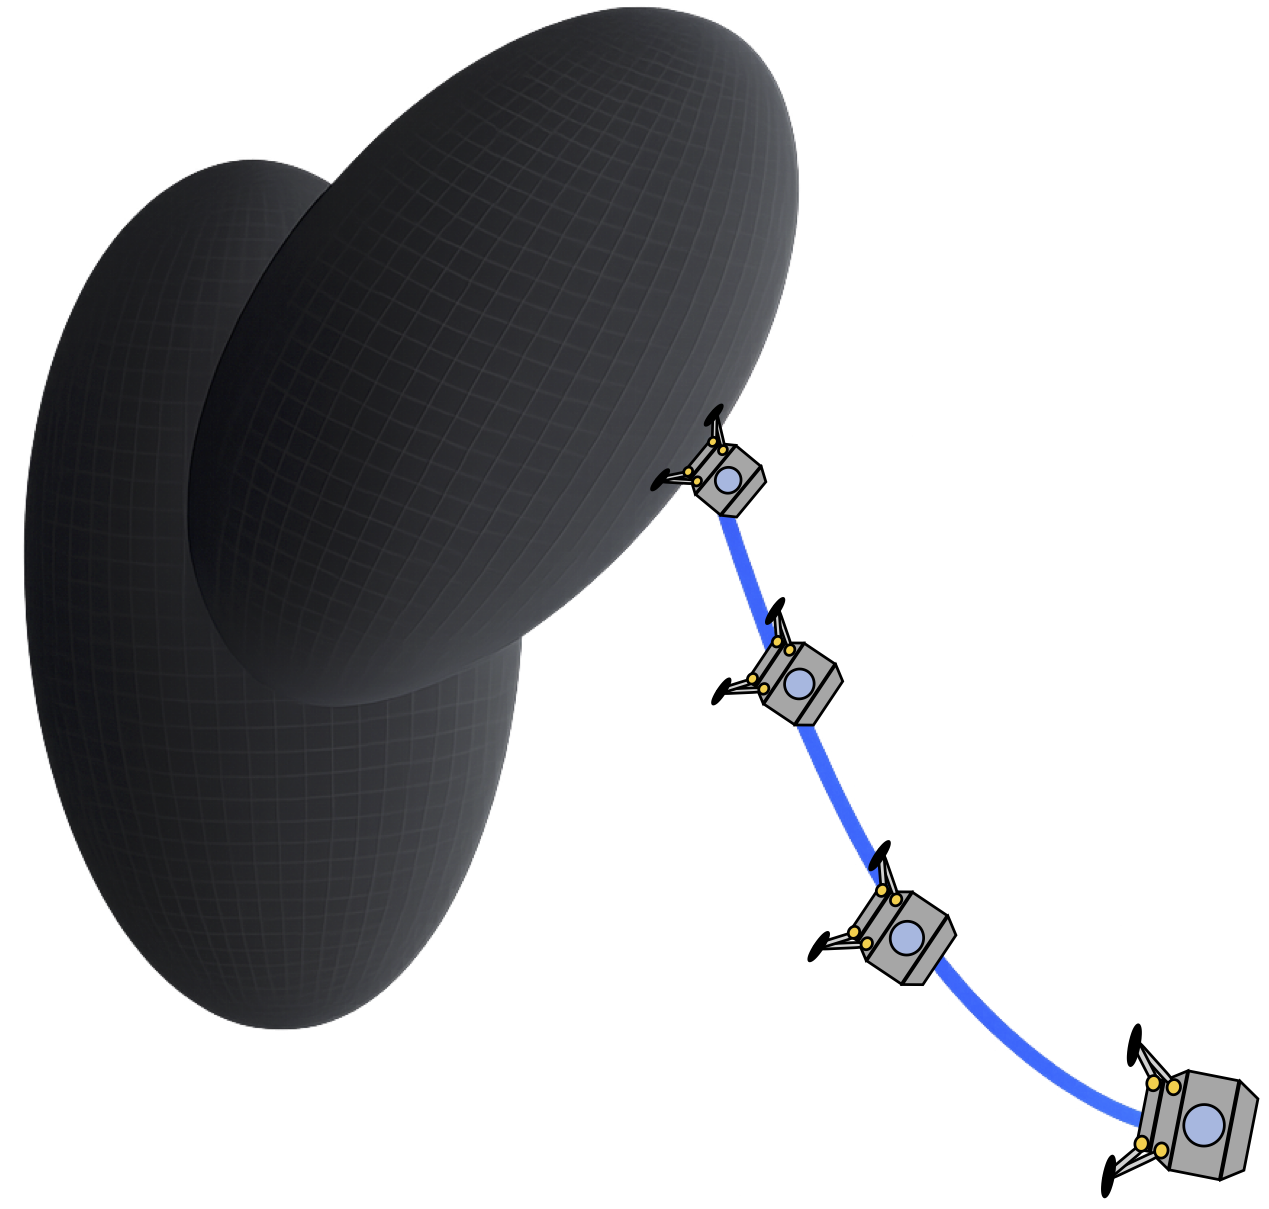
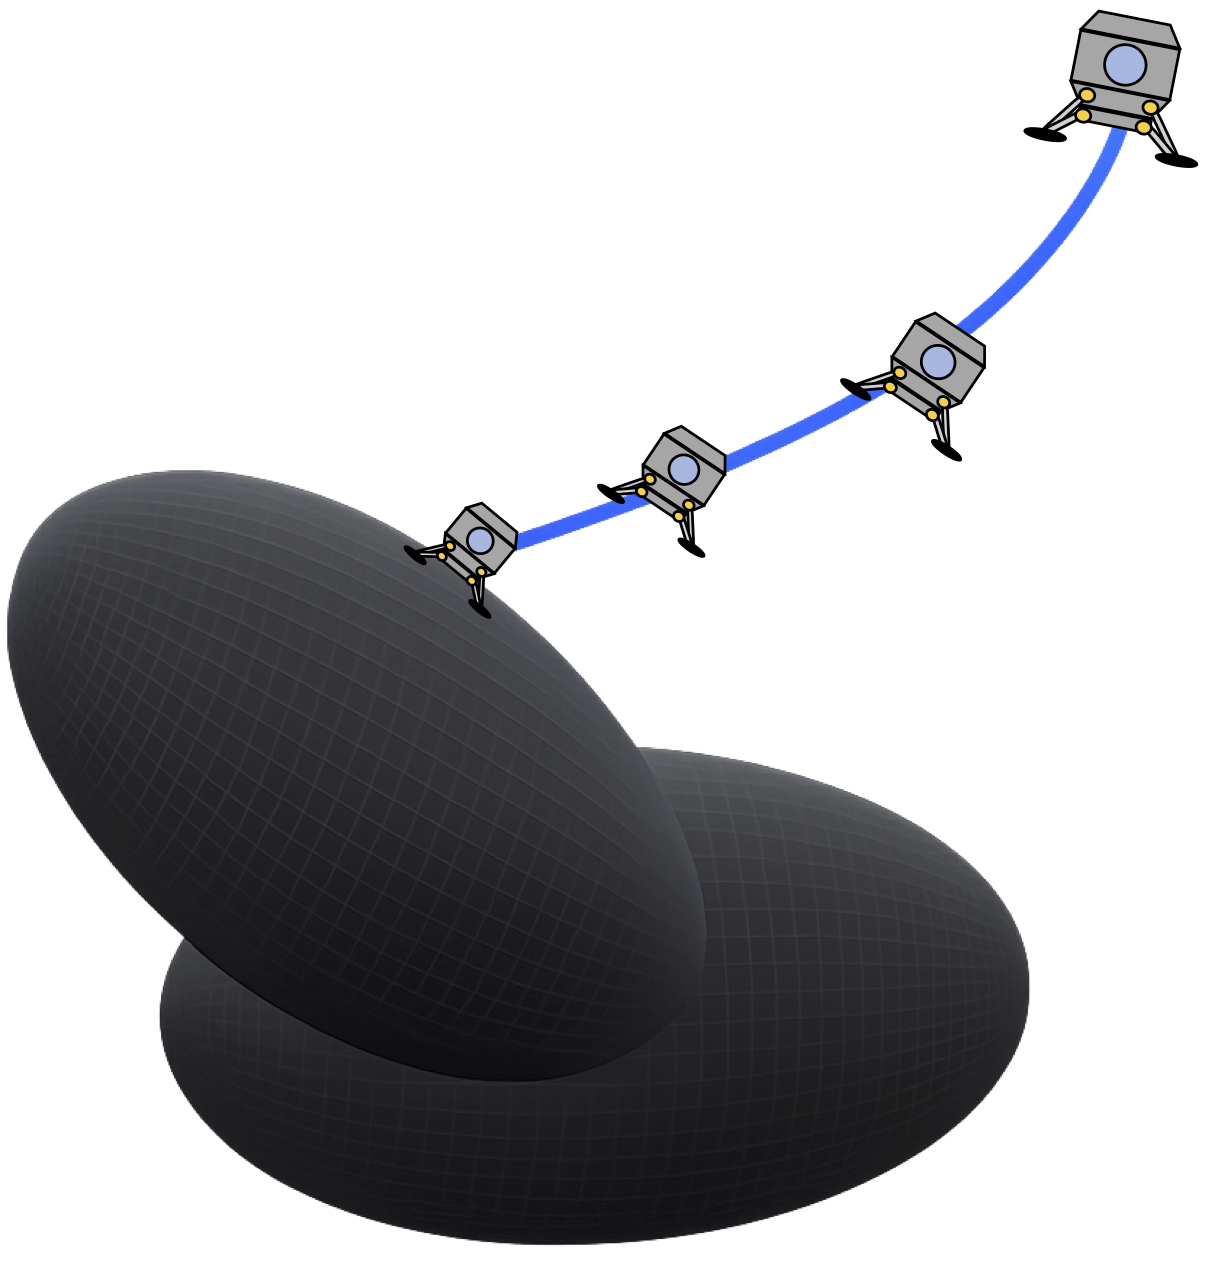
Updates

diff --git a/index.html b/index.html
@@ -17,12 +17,13 @@
   <meta property="og:site_name" content="University of Kentucky">
   <meta property="og:title" content="Safe Position and Attitude Control for Landing on Small Celestial Bodies with Gravitational Uncertainty">
   <meta property="og:description" content="An optimal control strategy using disturbance estimation and Control Barrier Functions to guarantee safe spacecraft landing on small celestial bodies.">
-  <meta property="og:url" content="https://YOUR_DOMAIN.com/YOUR_PROJECT_PAGE">
-  <meta property="og:image" content="https://YOUR_DOMAIN.com/static/images/social_preview.png">
+  <meta property="og:url" content="https://felipearenasuribe.github.io/SCB_Safe_Landing/">
+  <meta property="og:image" content="https://felipearenasuribe.github.io/SCB_Safe_Landing/static/images/Irreg_traj.png">
   <meta property="og:image:width" content="1200">
   <meta property="og:image:height" content="630">
-  <meta property="og:image:alt" content="Safe Position and Attitude Control for Landing on Small Celestial Bodies with Gravitational Uncertainty - Research Preview">
-  <meta property="article:published_time" content="2026"> <!-- TODO: Update to actual publication date -->
+  <meta property="og:image:alt" content="Spacecraft landing trajectory on an irregularly-shaped small celestial body">
+  <!-- TODO: this reuses an existing figure as a stand-in social card. For best results on X/LinkedIn/Slack,
+       create a dedicated 1200x630 image (e.g. title + trajectory teaser) and swap it in above and below. -->
   <meta property="article:author" content="Felipe Arenas-Uribe">
   <meta property="article:section" content="Research">
   <meta property="article:tag" content="Control Barrier Functions">
@@ -30,21 +31,25 @@
 
   <!-- Twitter -->
   <meta name="twitter:card" content="summary_large_image">
-  <meta name="twitter:site" content="@YOUR_LAB_TWITTER_HANDLE">
-  <meta name="twitter:creator" content="@AUTHOR_TWITTER_HANDLE">
   <meta name="twitter:title" content="Safe Position and Attitude Control for Landing on Small Celestial Bodies with Gravitational Uncertainty">
   <meta name="twitter:description" content="An optimal control strategy using disturbance estimation and Control Barrier Functions to guarantee safe spacecraft landing on small celestial bodies.">
-  <meta name="twitter:image" content="https://YOUR_DOMAIN.com/static/images/social_preview.png">
-  <meta name="twitter:image:alt" content="Safe Position and Attitude Control for Landing on Small Celestial Bodies with Gravitational Uncertainty - Research Preview">
+  <meta name="twitter:image" content="https://felipearenasuribe.github.io/SCB_Safe_Landing/static/images/Irreg_traj.png">
+  <meta name="twitter:image:alt" content="Spacecraft landing trajectory on an irregularly-shaped small celestial body">
+  <!-- TODO: add twitter:site / twitter:creator (e.g. "@your_handle") if/when you have one -->
 
   <!-- Academic/Research Specific -->
+  <!-- NOTE: citation_* tags are commented out until the paper is accepted/posted as a preprint,
+       to avoid Google Scholar indexing a paper that isn't publicly available yet. Uncomment and
+       fill in citation_journal_title, citation_publication_date, and citation_pdf_url once ready. -->
+  <!--
   <meta name="citation_title" content="Safe Position and Attitude Control for Landing on Small Celestial Bodies with Gravitational Uncertainty">
   <meta name="citation_author" content="Arenas-Uribe, Felipe">
   <meta name="citation_author" content="Seigler, T. Michael">
   <meta name="citation_author" content="Hoagg, Jesse B.">
-  <meta name="citation_publication_date" content="2026"> <!-- TODO: Update year if published later -->
-  <meta name="citation_conference_title" content="CONFERENCE_OR_JOURNAL_NAME">
-  <meta name="citation_pdf_url" content="https://YOUR_DOMAIN.com/static/pdfs/paper.pdf">
+  <meta name="citation_publication_date" content="2026">
+  <meta name="citation_journal_title" content="Frontiers in Robotics and AI">
+  <meta name="citation_pdf_url" content="https://felipearenasuribe.github.io/SCB_Safe_Landing/static/pdfs/paper.pdf">
+  -->
   
   <!-- Additional SEO -->
   <meta name="theme-color" content="#2563eb">
@@ -59,7 +64,7 @@
   <link rel="preconnect" href="https://documentcloud.adobe.com">
   <link rel="preconnect" href="https://cdn.jsdelivr.net">
 
-  <title>Safe Position and Attitude Control for Landing on Small Celestial Bodies with Gravitational Uncertainty - Felipe Arenas-Uribe, T. Michael Seigler, & Jesse B. Hoagg | Academic Research</title>
+  <title>Safe Position and Attitude Control for Landing on Small Celestial Bodies with Gravitational Uncertainty</title>
   
   <!-- Favicon and App Icons -->
   <link rel="icon" type="image/x-icon" href="static/images/spacecraft.ico">
@@ -126,13 +131,13 @@
         }
       }
     ],
-    "datePublished": "July, 2026",
+    "creativeWorkStatus": "Under review",
     "publisher": {
       "@type": "Organization",
-      "name": "Submitted to..."
+      "name": "Frontiers in Robotics and AI"
     },
-    "url": "https://YOUR_DOMAIN.com/YOUR_PROJECT_PAGE",
-    "image": "https://YOUR_DOMAIN.com/static/images/social_preview.png",
+    "url": "https://felipearenasuribe.github.io/SCB_Safe_Landing/",
+    "image": "https://felipearenasuribe.github.io/SCB_Safe_Landing/static/images/Irreg_traj.png",
     "keywords": [
       "spacecraft control", 
       "small celestial bodies", 
@@ -143,12 +148,10 @@
       "6-DOF dynamics"
     ],
     "abstract": "Soft landing on small celestial bodies (SCBs) presents control challenges due to highly irregular gravitational fields that are poorly captured by models. For over-actuated spacecraft, these challenges are compounded by the need to manage coupled 6-DOF dynamics while respecting individual actuator limits. This paper proposes an optimal control strategy that combines disturbance estimation, trajectory tracking, and safety enforcement for fully-actuated and over-actuated spacecraft. The approach begins by mapping the high-dimensional input constraints of the over-actuated system onto the lower-dimensional space of forces and moments using a polytope projection algorithm. This allows for a unified representation of admissible control efforts. An extended high-gain observer provides real-time estimation of gravitational disturbances, while a nominal control is designed using a feedback-linearizing controller to track position and attitude reference trajectories. To guarantee safety, a minimum-intervention quadratic program utilizing Control Barrier Functions enforces state and input constraints. Finally, an optimal control allocation layer distributes the safe forces and moments back to the individual actuators. Numerical simulations on irregularly shaped SCBs demonstrate that the proposed controller achieves safe landings across various actuator configurations, offering a robust solution for autonomous space missions.",
-    "citation": "@article{arenas2026safe,\n  title={Safe Position and Attitude Control for Landing on Small Celestial Bodies with Gravitational Uncertainty},\n  author={Arenas-Uribe, Felipe and Seigler, T Michael and Hoagg, Jesse B},\n  year={2026}\n}",
-    "isAccessibleForFree": true,
-    "license": "https://creativecommons.org/licenses/by/4.0/",
+    "isAccessibleForFree": false,
     "mainEntity": {
       "@type": "WebPage",
-      "@id": "https://YOUR_DOMAIN.com/YOUR_PROJECT_PAGE"
+      "@id": "https://felipearenasuribe.github.io/SCB_Safe_Landing/"
     },
     "about": [
       {
@@ -169,9 +172,8 @@
     "@type": "Organization",
     "name": "University of Kentucky",
     "url": "https://www.uky.edu",
-    "logo": "https://YOUR_DOMAIN.com/static/images/favicon.ico",
+    "logo": "https://felipearenasuribe.github.io/SCB_Safe_Landing/static/images/spacecraft.ico",
     "sameAs": [
-      "https://twitter.com/YOUR_LAB_TWITTER_HANDLE",
       "https://github.com/FelipeArenasUribe"
     ]
   }
@@ -208,21 +210,21 @@
           </div>
 
           <div class="is-size-6 publication-authors">
-            <span class="author-block"><strong>PREPRINT - 2026</strong></span>
+            <span class="author-block"><strong>Under Review &mdash; Frontiers in Robotics and AI</strong></span>
           </div>
 
           <div class="column has-text-centered">
             <div class="publication-links">
-              
+              <!-- TODO: once a preprint is posted, re-add an arXiv/Paper button here, e.g.:
               <span class="link-block">
-                <a href="https://arxiv.org/abs/<ARXIV PAPER ID>" target="_blank" class="external-link button is-normal is-rounded is-dark">
-                  <span class="icon">
-                    <i class="ai ai-arxiv"></i>
-                  </span>
+                <a href="https://arxiv.org/abs/XXXX.XXXXX" target="_blank" class="external-link button is-normal is-rounded is-dark">
+                  <span class="icon"><i class="ai ai-arxiv"></i></span>
                   <span>arXiv</span>
                 </a>
               </span>
+              -->
 
+              <!-- NOTE: this repo is currently private and will be made public alongside the paper -->
               <span class="link-block">
                 <a href="https://github.com/FelipeArenasUribe/Asteroid_Safe_Landing" target="_blank" class="external-link button is-normal is-rounded is-dark">
                   <span class="icon">
@@ -274,7 +276,6 @@
       <div class="column is-four-fifths">
         <h2 class="title is-3">Abstract</h2>
         <div class="content has-text-justified">
-          <!-- TODO: Replace with your paper abstract -->
           <p>
             Soft landing on small celestial bodies (SCBs) presents control challenges due to highly irregular gravitational fields that are poorly captured by models. For over-actuated spacecraft, these challenges are compounded by the need to manage coupled 6-DOF dynamics while respecting individual actuator limits. This paper proposes an optimal control strategy that combines disturbance estimation, trajectory tracking, and safety enforcement for fully-actuated and over-actuated spacecraft. The approach begins by mapping the high-dimensional input constraints of the over-actuated system onto the lower-dimensional space of forces and moments using a polytope projection algorithm. This allows for a unified representation of admissible control efforts. An extended high-gain observer provides real-time estimation of gravitational disturbances, while a nominal control is designed using a feedback-linearizing controller to track position and attitude reference trajectories. To guarantee safety, a minimum-intervention quadratic program utilizing Control Barrier Functions enforces state and input constraints. Finally, an optimal control allocation layer distributes the safe forces and moments back to the individual actuators. Numerical simulations on irregularly shaped SCBs demonstrate that the proposed controller achieves safe landings across various actuator configurations, offering a robust solution for autonomous space missions.
           </p>
@@ -286,6 +287,67 @@
 <!-- End paper abstract -->
 
 
+<section class="hero is-small" id="problem-setup">
+  <div class="hero-body">
+    <div class="container is-max-desktop">
+
+      <h2 class="title is-4 has-text-centered mb-5">The Landing Problem</h2>
+
+      <div class="content has-text-justified" style="max-width: 760px; margin: 0 auto 2.5rem auto;">
+        <p>
+          A spacecraft must descend from a hovering position to a target touchdown site on a small,
+          irregularly-shaped asteroid whose weak, poorly-known gravity field makes standard landing
+          controllers unreliable. Beyond simply reaching the surface, the vehicle must stay within a
+          safe approach corridor for the entire descent:
+        </p>
+      </div>
+
+      <div class="columns is-centered is-vcentered">
+
+        <div class="column is-one-third has-text-centered">
+          <img src="static/images/Asteroid_Spacecraft.jpg"
+               alt="Spacecraft position and attitude defined relative to a rotating asteroid frame and an inertial frame"
+               style="width: 100%; max-width: 300px; height: auto; border-radius: 6px;">
+          <p class="is-size-7" style="color: #4a4a4a; margin-top: 0.75rem;">
+            The spacecraft's position and attitude are tracked relative to the asteroid, which rotates
+            independently in inertial space.
+          </p>
+        </div>
+
+        <div class="column is-one-third has-text-centered">
+          <img src="static/images/gs_cons.jpg"
+               alt="Glideslope cone constraint restricting the spacecraft to a safe approach path above the landing site"
+               style="width: 100%; max-width: 300px; height: auto; border-radius: 6px;">
+          <p class="is-size-7" style="color: #4a4a4a; margin-top: 0.75rem;">
+            A glideslope cone keeps the vehicle on a safe approach path, ruling out shallow,
+            surface-grazing trajectories.
+          </p>
+        </div>
+
+        <div class="column is-one-third has-text-centered">
+          <img src="static/images/bs_cons.jpg"
+               alt="Boresight cone constraint keeping the spacecraft's sensing axis pointed at the landing site"
+               style="width: 100%; max-width: 300px; height: auto; border-radius: 6px;">
+          <p class="is-size-7" style="color: #4a4a4a; margin-top: 0.75rem;">
+            A boresight cone keeps the vehicle pointed at the landing site throughout the approach.
+          </p>
+        </div>
+
+      </div>
+
+      <div class="content has-text-justified" style="max-width: 760px; margin: 1.5rem auto 0 auto;">
+        <p>
+          Together with limits on speed and actuator effort, these constraints define the safe set that
+          the controller must enforce in real time &mdash; despite never knowing the asteroid's gravity
+          field exactly.
+        </p>
+      </div>
+
+    </div>
+  </div>
+</section>
+
+
 <section class="hero is-small">
   <div class="hero-body">
     <div class="container is-max-desktop">
@@ -294,7 +356,7 @@
       
       <figure style="margin: 0;">
         <div class="image-container" style="display: flex; justify-content: center; align-items: center; margin-bottom: 1.5rem;">
-          <img src="static/images/Architecture.png" 
+          <img src="static/images/Architecture.jpg" 
                alt="Architecture for Safe control with state and input constraints under gravitational uncertainty. A desired control tracks a reference trajectory, while a safety-filter minimizes deviation from the desired input and guarantees safety despite gravitational uncertainty. An optimization-based allocation is then used to map the forces and torques to the actuator inputs." 
                style="width: 100%; max-width: 1565px; height: auto; aspect-ratio: 1565 / 395; display: block; border-radius: 6px;">
         </div>
@@ -319,8 +381,8 @@
       
       <figure style="margin: 0;">
         <div class="image-container" style="display: flex; justify-content: center; align-items: center; margin-bottom: 1.5rem;">
-          <img src="static/images/polytope_proj.png" 
-               alt="." 
+          <img src="static/images/polytope_proj.jpg" 
+               alt="Diagram showing the polytope U of admissible actuator inputs projected through the affine mapping M onto the lower-dimensional polytope Phi of admissible control forces and torques" 
                style="width: 100%; max-width: 680px; height: auto; aspect-ratio: 680 / 278; display: block; border-radius: 6px;">
         </div>
 
@@ -386,10 +448,16 @@
         <span class="copy-text">Copy</span>
       </button>
     </div>
+    <p class="content" style="margin-bottom: 1rem;">
+      This journal manuscript is currently under review; the citation below will be updated upon acceptance.
+      A preliminary version of this work is available now as a
+      <a href="https://arxiv.org/abs/2510.05895" target="_blank">conference paper (ACC 2026 submission)</a>.
+    </p>
     <pre id="bibtex-code"><code>@article{arenas2026safe,
   title={Safe Position and Attitude Control for Landing on Small Celestial Bodies with Gravitational Uncertainty},
   author={Arenas-Uribe, Felipe and Seigler, T. Michael and Hoagg, Jesse B.},
-  journal={arXiv preprint arXiv:<ARXIV PAPER ID>},
+  journal={Frontiers in Robotics and AI},
+  note={Under review},
   year={2026}
 }</code></pre>
   </div>

diff --git a/README.md b/README.md
@@ -1,93 +1,29 @@
 # Safe Position and Attitude Control for Landing on Small Celestial Bodies with Gravitational Uncertainty
 
-This repository implements an optimal 6-DOF control framework designed for soft-landing maneuvers on Small Celestial Bodies (SCBs) under significant gravitational uncertainty.
+Project page for a manuscript currently under review at *Frontiers in Robotics and AI*, by
+Felipe Arenas-Uribe, T. Michael Seigler, and Jesse B. Hoagg (University of Kentucky).
 
-Developed by: **Felipe Arenas-Uribe**  
-Autonomy, Robotics and Controls Lab  
-University of Kentucky  
+**Live page:** https://felipearenasuribe.github.io/SCB_Safe_Landing/
+**Code:** https://github.com/FelipeArenasUribe/Asteroid_Safe_Landing (currently private &mdash; will be made public alongside the paper)
+**Preprint (precursor conference paper):** https://arxiv.org/abs/2510.05895
 
-<p align="center">
-  <img src="static/images/Ellip_traj.png" width="60%" />
-</p>
+This repository contains only the static site (HTML/CSS/JS/media) for the project page above.
+The controller implementation and simulation code live in a separate repository (linked once available).
 
-<p align="center">
-  <img src="static/images/Irreg_traj.png" width="45%" />
-</p>
+## Local preview
 
+The page is plain static HTML with no build step. To preview locally:
 
-
-## Features
-
-The framework integrates the following core components:
-
-- **Polytope-Based Constraint Mapping:** Maps high-dimensional actuator limits onto a lower-dimensional space of feasible forces and moments, allowing the controller to handle over-actuated spacecraft configurations seamlessly.
-
-<p align="center">
-  <img src="static/images/polytope_proj.png" width="25%" />
-</p>
-
-- **Real-Time Disturbance Estimation:** Utilizes an Extended High-Gain Observer (EHGO) to estimate and compensate for unmodeled gravitational accelerations in real time.
-
-- **6-DOF Trajectory Tracking:** Employs a feedback-linearizing nominal controller to track coupled translational and rotational trajectories simultaneously.
-
-- **Safety-Critical Enforcement:** Employs a Minimum-Intervention Quadratic Program (QP) with Control Barrier Functions (CBFs) to strictly enforce state constraints and projected input limits.
-
-- **Optimal Control Allocation:** Distributes the safety-filtered forces and moments back to individual actuators, ensuring the final commands remain within physical hardware limits.
-
-<p align="center">
-  <img src="static/images/Architecture.png" width="100%" />
-</p>
-
----
-
-Control Barrier Functions require computing partial derivatives of multiple functions. To maintain flexibility and generality, this implementation uses **JAX automatic differentiation**. To ensure real-time performance we use JIT compilation and vectorization strategies to accelerate the repeated auto-diff process.
-
-## Usage
-
-### Requirements
-
-- Python 3.8+
-- JAX
-- NumPy
-- SciPy
-- Matplotlib
-- ARC_Grav
-
-All dependencies can be installed via `pip`.
-
-## Running the Examples
-
-Four examples are included in this repository. We consider two spacecraft configurations: a robotic lander (conf_1) and a crewed landing module (conf_2).
-
-Each spacecraft is tested in two different enviroments: an ellipsoidal asteroid and an irregularly-shaped asteroid. 
-
-For each example we include the code to perform the trajectory generation and code to execute the landing maneuver.
-
-**Generate a reference trajectory:**
 ```bash
-python conf1_ellip_traj_gen.py
+python3 -m http.server 8000
 ```
 
-**Simulate landing maneuver:**
-```bash
-python ellip_conf1_SF.py
-```
-
-
-A `DEMO.py` file is also provided. You are encouraged to modify it to create your own asteroid model, spacecraft configuration, and landing mission.
-
-You can learn more about generating custom asteroid gravity models using ARC_Grav here:
-[https://github.com/FelipeArenasUribe/ARC-Grav](https://github.com/FelipeArenasUribe/ARC-Grav)
-
-See the associated paper for details:
-[https://arxiv.org/abs/2601.17628](https://arxiv.org/abs/2601.17628)
-
+Then open `http://localhost:8000` in a browser.
 
 ## Citation
 
-If you find this work useful, please consider citing:
-
-<!-- **[Safe Position and Attitude Control for Landing on Small Celestial Bodies with Gravitational Uncertainty](https://arxiv.org/abs/2510.05895)**
+The journal citation will be added here once the manuscript is accepted. In the meantime, the
+precursor conference paper can be cited:
 
 ```bash
 @misc{arenasuribe2025safelandingsmallcelestial,
@@ -99,4 +35,9 @@ If you find this work useful, please consider citing:
       primaryClass={eess.SY},
       url={https://arxiv.org/abs/2510.05895}, 
 }
-``` -->
+```
+
+## Credits
+
+Page built from the [Academic Project Page Template](https://github.com/eliahuhorwitz/Academic-project-page-template),
+adapted from [Nerfies](https://nerfies.github.io).